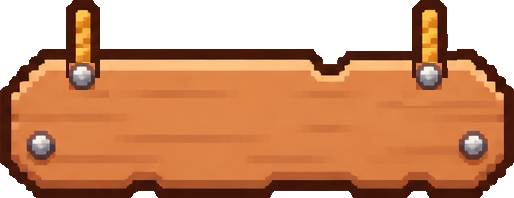
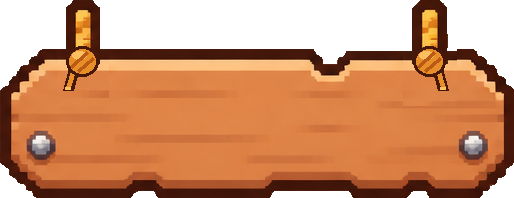
Header sign art: rope knots instead of nails
Claude-Session: https://claude.ai/code/session_016CQekzpGhANorfRCZx2is2

Changed region(s): [[0.7782, 0.1818, 0.8716, 0.4848], [0.1245, 0.1818, 0.2179, 0.4848]]

diff --git a/sw.js b/sw.js
@@ -1,5 +1,5 @@
 // 像素行程夥伴 service worker：離線快取。改了檔案後把 VERSION 加 1，手機才會抓到新版。
-const VERSION='v8';
+const VERSION='v9';
 const CACHE='pixel-pal-'+VERSION;
 const CORE=['./','index.html','manifest.webmanifest','icons/icon-192.png','icons/icon-512.png','icons/apple-touch-icon.png','vendor/supabase-2.118.0.js',
   'assets/badge.png',
